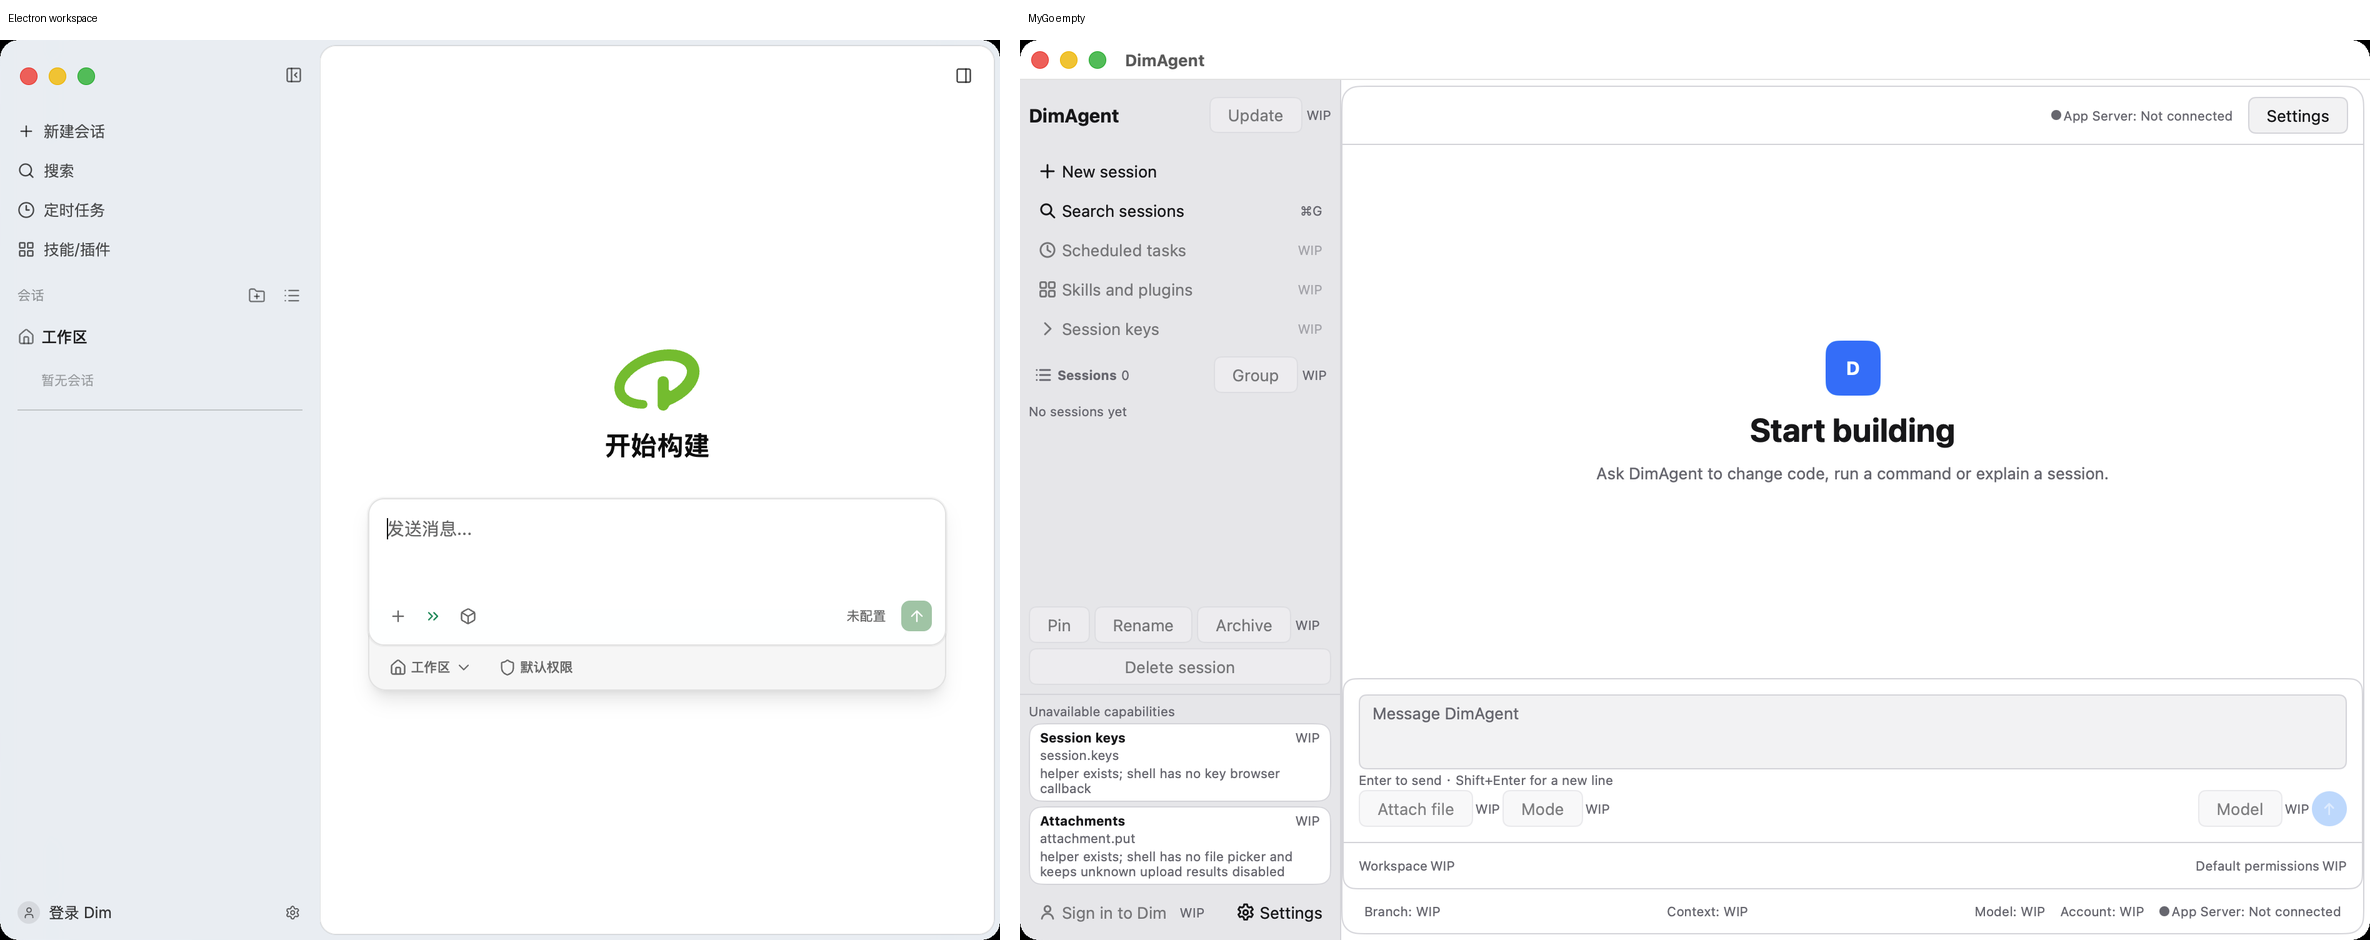
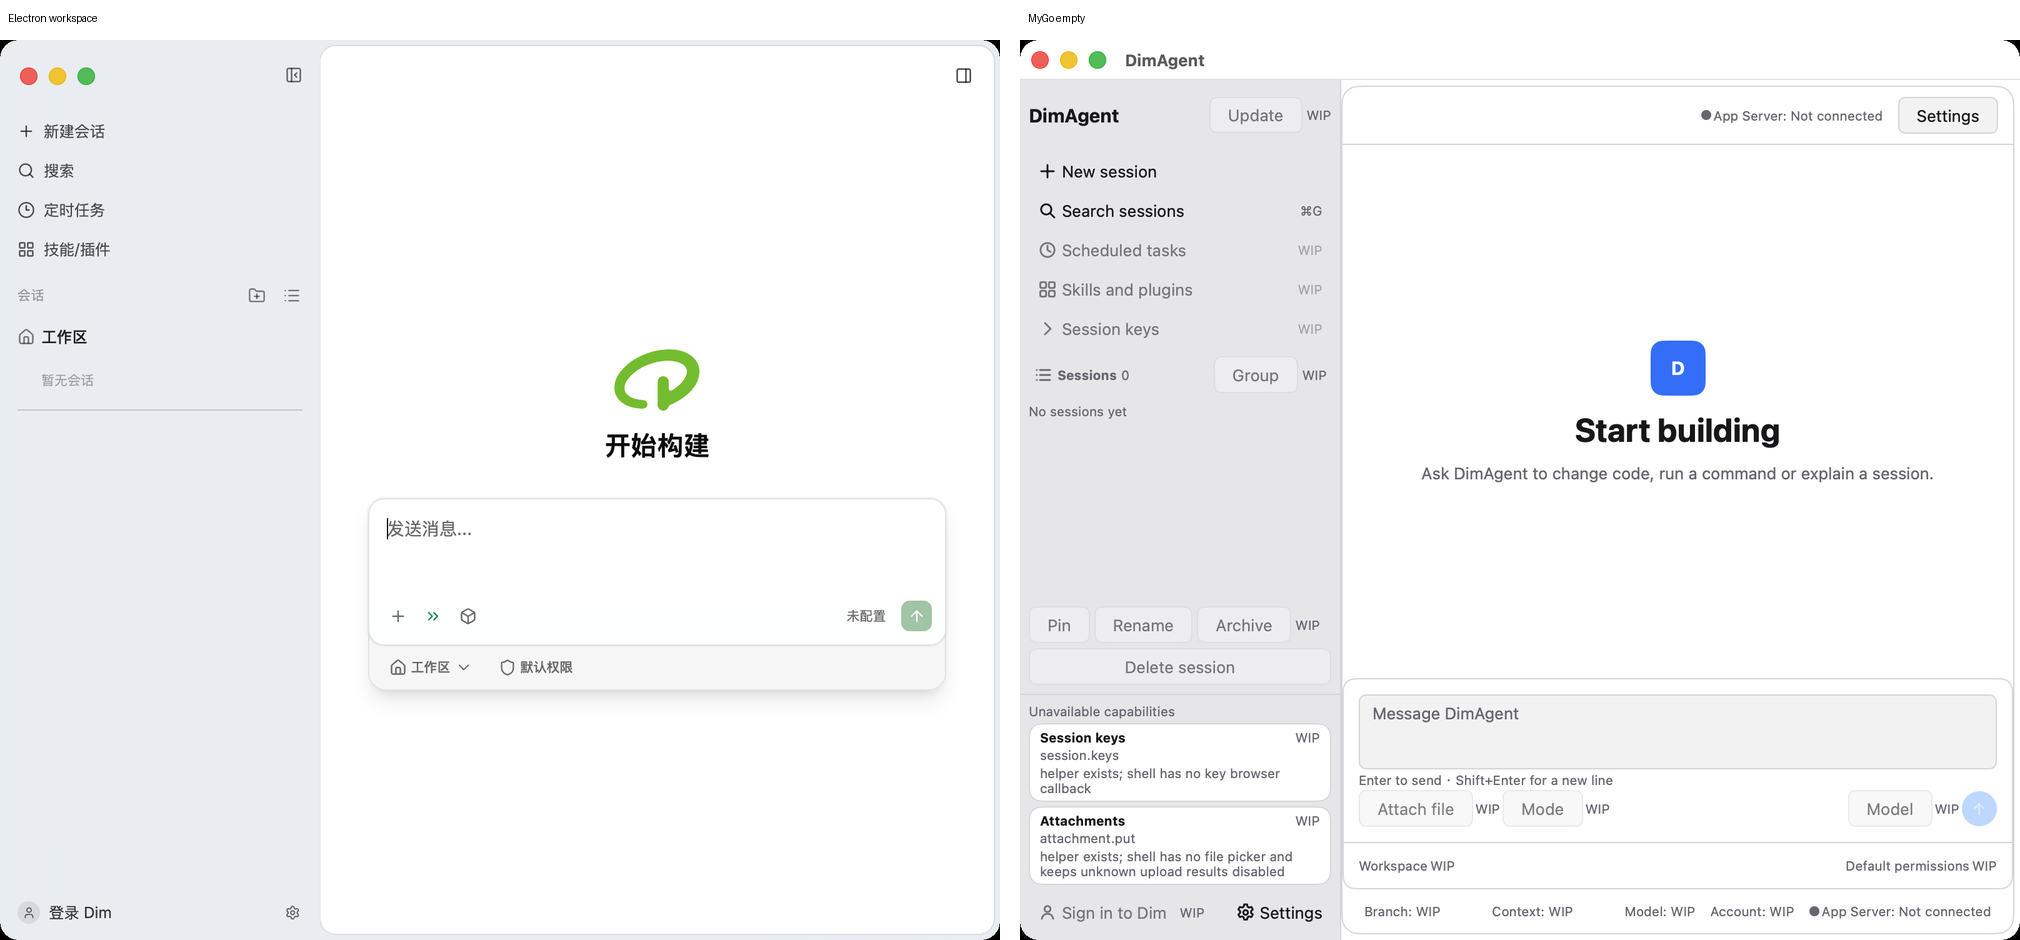
feat(ui): open the window at the reference's 800x720

diff --git a/cmd/dimagent/main.go b/cmd/dimagent/main.go
@@ -1555,8 +1555,10 @@ func main() {
 	}
 	mygo.App.WhenReady(func() {
 		application.win = mygo.NewWindow(mygo.WindowOptions{
-			Title:  "DimAgent",
-			Width:  1080,
+			Title: "DimAgent",
+			// The reference window opens at 800×720 points; the sidebar's 256 DIP
+			// is the same, so the proportion of chrome matches the desktop app.
+			Width:  800,
 			Height: 720,
 			// content draws the shell and then writes an appearance choice the
 			// surface applied during that frame.

diff --git a/docs/window-evidence.md b/docs/window-evidence.md
@@ -12,8 +12,8 @@
 |---|---|
 | 机器 | macOS 26.6.2（darwin/arm64） |
 | Go | go1.27.3 darwin/arm64 |
-| 源码 | 两种状态都来自 `HEAD = 54146a6` + token 调整的工作区（未提交），2026-11-09 16:43 |
-| 构建时间 | 2026-11-09 16:43:32 CST |
+| 源码 | 两种状态都来自 HEAD `66fe35d` + 窗口宽度改 800（工作区未提交），2026-11-09 16:53 |
+| 构建时间 | 2026-11-09 16:53 CST |
 | App Server 二进制 | `/tmp/dim-2-target/debug/dim-app-server`（Mach-O arm64，401 302 448 B，mtime 2026-11-08 23:38） |
 | 窗口库 | `github.com/egoist/mygo v0.8.3`（`mygo.NewWindow`，`Width: 1080`、`Height: 720`） |
 | 截图工具 | `/usr/sbin/screencapture -x -o -l <windowid>`（按窗口 ID 截取，只含该窗口，不含桌面和其它应用） |
@@ -41,10 +41,10 @@ cd /Users/eric8810/Code/dimagent-mygo
 
 | 状态 | 采集时间 | 窗口 ID | 窗口位置/尺寸（points） | PNG 像素 | 字节 | PNG 路径 |
 |---|---|---|---|---|---|---|
-| 未连接 | 16:43:28 → 16:43:30 | 49095 | `484,116,1080,720` | 2160×1440（= 1080×720 @2x） | 283 967 | [`evidence/window-disconnected.png`](evidence/window-disconnected.png) |
-| 已连接（seed 会话） | 16:43:34 → 16:43:36 | 49128 | `484,116,1080,720` | 2160×1440（= 1080×720 @2x） | 294 797 | [`evidence/window-connected.png`](evidence/window-connected.png) |
+| 未连接 | 16:53 → 16:53 | — | `484,116,800,720` | 1600×1440（= 800×720 @2x） | 见元数据 | [`evidence/window-disconnected.png`](evidence/window-disconnected.png) |
+| 已连接（seed 会话） | 16:53 → 16:53 | — | `484,116,800,720` | 1600×1440（= 800×720 @2x） | 见元数据 | [`evidence/window-connected.png`](evidence/window-connected.png) |
 
-MD5：未连接 `2f1f4c170f49459181c7fb8d825a2b7f`，已连接 `6d81ae9d71b9407746f78ea0a5cffbb1`。
+MD5 与窗口 ID 见 `docs/evidence/window-*.txt`（每次采集重写）。
 
 机器可读的采集元数据（脚本生成，含源码快照、PID、窗口 ID、bounds、daemon 命令行）：
 [`evidence/window-disconnected.txt`](evidence/window-disconnected.txt)、[`evidence/window-connected.txt`](evidence/window-connected.txt)。
